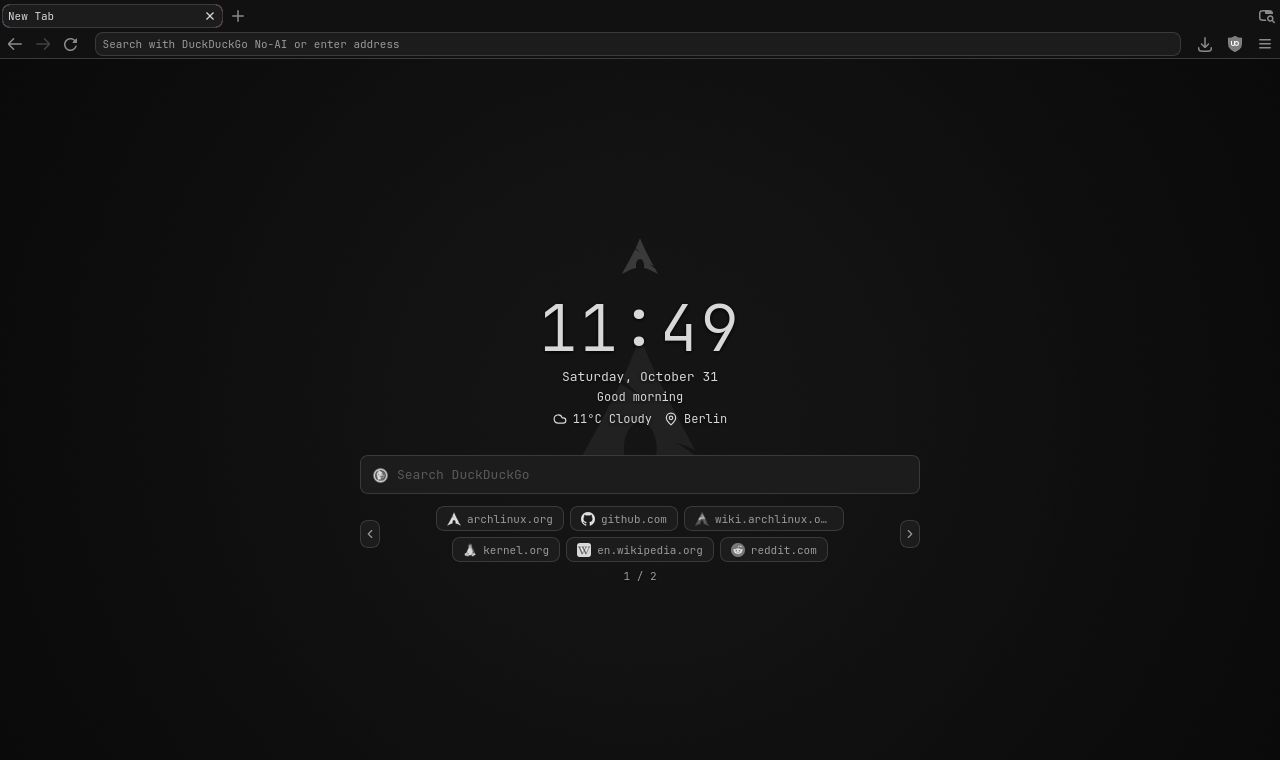
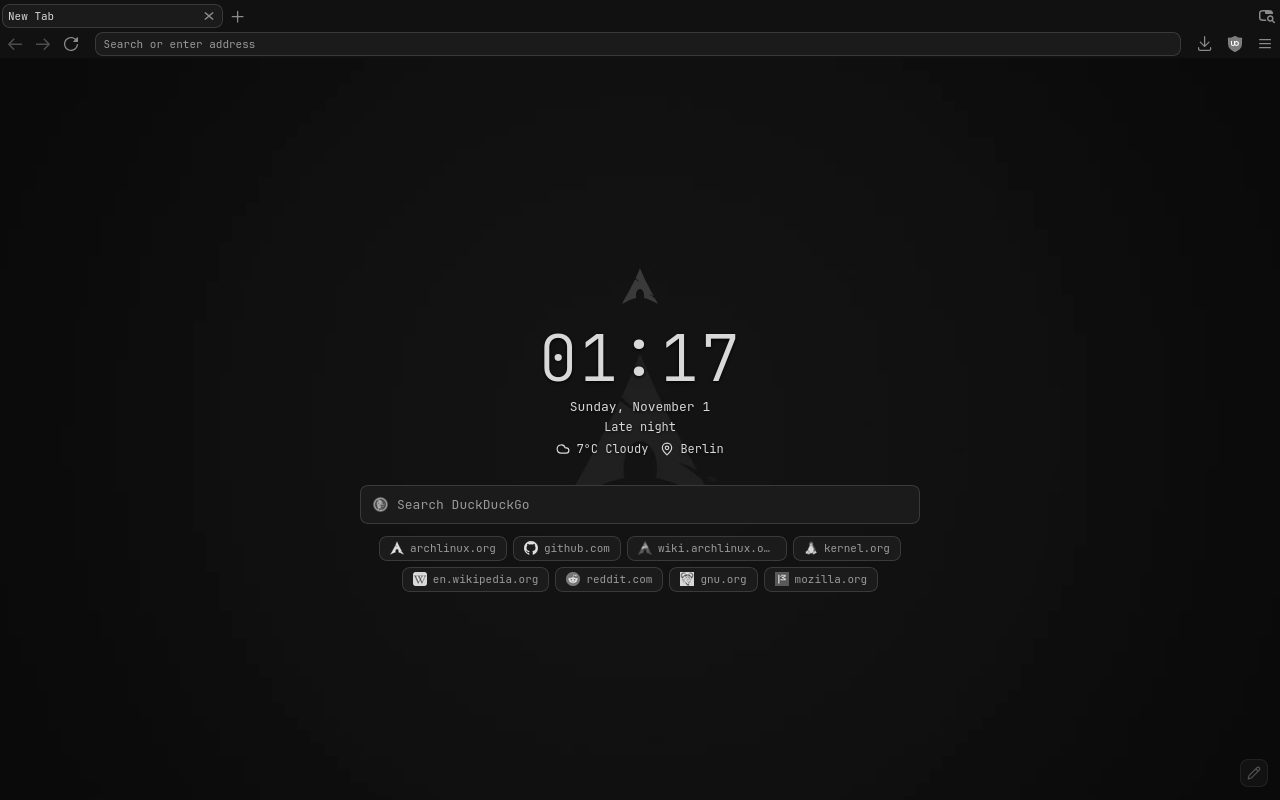
Simpler README, new screenshots

diff --git a/README.md b/README.md
@@ -1,16 +1,14 @@
 # Graphite LibreWolf
 
-A minimal gray theme and customizable new tab page for LibreWolf, built for low-spec PCs: no animations, no background code, and no network use unless you turn it on.
+A minimal gray theme and new tab page for LibreWolf, made for low-spec PCs. No animations, no background code, and nothing uses the network unless you turn it on.
 
 > **Version 0.5: early testing.** Expect rough edges and changes.
 
 ![LibreWolf with the Graphite theme and start page](screenshots/start-page.png)
 
-![The customize panel](screenshots/customize.png)
-
 ## Install
 
-You need LibreWolf opened at least once, plus [JetBrainsMono Nerd Font](https://www.nerdfonts.com/) (on Arch: `sudo pacman -S ttf-jetbrains-mono-nerd`).
+You need LibreWolf opened at least once, and [JetBrainsMono Nerd Font](https://www.nerdfonts.com/) (on Arch: `sudo pacman -S ttf-jetbrains-mono-nerd`).
 
 **1. Install the theme**
 
@@ -20,11 +18,9 @@ cd librewolf-css
 ./install.sh
 ```
 
-Restart LibreWolf. The script backs up your existing `user.js` and `chrome` folder first. With several profiles it asks which one to use, and `about:profiles` shows the one in use.
+Then restart LibreWolf. Your current `user.js` and `chrome` folder are backed up first. If you have several profiles, it asks which one to use, and `about:profiles` shows the one in use.
 
 **2. Install the start page**
-
-The add-on is signed by Mozilla, so it needs no changes in `about:config`.
 
 1. Download `graphite-start.xpi` from the newest version on [Releases](https://github.com/absentlo/librewolf-css/releases).
 2. Open `about:addons`, click the gear, and choose **Install Add-on From File**.
@@ -34,55 +30,59 @@ The add-on is signed by Mozilla, so it needs no changes in `about:config`.
 
 Open a new tab and click the pencil in the bottom-right corner.
 
-For private windows too: in `about:addons`, open **Graphite Start** and set **Run in Private Windows** to **Allow**.
+To use the start page in private windows, open **Graphite Start** in `about:addons` and set **Run in Private Windows** to **Allow**.
 
 > **Firefox:** the add-on needs version 140 or newer, but only LibreWolf 159 has been tested.
 
-## What the pencil panel does
+## What you can customize
+
+![The customize panel](screenshots/customize.png)
 
 - **Sections:** show or hide the logo, clock, date, search, pages and weather.
-- **Clock:** 12 or 24 hour, three sizes, your time zone, and your name in the greeting.
-- **Search:** six engines, each with its logo in gray.
-- **Weather:** your city in °C or °F, with icons for the conditions and for day or night.
+- **Clock:** 12 or 24 hour, three sizes, your time zone and your name.
+- **Search:** six search engines.
+- **Weather:** your city, in °C or °F.
 - **Wallpaper:** your own image, with a darkness slider. It's resized to 1920 px wide to keep new tabs fast, and animated images become still.
-- **My pages and Most visited:** gray logos, custom names and logo-only buttons. Set how many show per page, then browse with the arrows, the mouse wheel or the left and right keys.
-- **Backup:** export and import all of this as one file.
-
-## New profile? Your theme is gone
-
-Your theme lives **inside the profile folder**, and a new profile starts empty. To bring everything back:
-
-1. In the old profile, open the panel and click **export**.
-2. Open the new profile once, close it, and run `./install.sh`.
-3. Install the start page again (step 2 above), then click **import**.
-4. Tick **Weather**, **Page icons** and **Most visited** again, since permissions don't carry over.
-
-The backup holds your wallpaper and page addresses in plain text, so keep it private.
-
-Don't copy a whole profile folder: the browser can end up pointing at the copy instead of your real profile.
-
-## Change things
-
-- **Colors:** the variables at the top of `userChrome.css` and of `startpage/newtab.css`.
-- **Font:** `--g-font` in `userChrome.css`.
-- **Window buttons:** on a tiling window manager such as i3 or sway, uncomment the marked block in `userChrome.css` to hide them.
-- **Preferences:** `user.js` has a comment on every setting. If you delete a line, also reset that setting in `about:config`.
-- **Video:** `user.js` turns off AV1, which helps most older PCs. If your GPU decodes AV1, delete that line and reset the setting.
-- **The start page's code:** raise `version` in `startpage/manifest.json` and run `./install.sh --build-addon` (needs `zip`). Your build is unsigned, so installing it needs `xpinstall.signatures.required` set to `false` in `about:config`, which lets LibreWolf install any unsigned add-on.
-
-**Before updating the add-on,** keep a normal website tab open. Updating closes the start page's tabs, and if they're the only ones open, the window closes too.
+- **Pages:** your own sites and your most visited ones, with gray logos and custom names.
+- **Backup:** save all of this to a file and load it again later.
 
 ## Privacy
 
-These are all off until you turn them on, and LibreWolf asks your permission first for Weather and Page icons.
+These are off until you turn them on. LibreWolf asks your permission first.
 
 | Option | What it contacts | What that sees |
 |---|---|---|
 | Weather | [Open-Meteo](https://open-meteo.com/) | Your IP address and city, at most every 30 minutes |
 | Page icons | DuckDuckGo's icon service | Your IP address and the site's name, once per site |
-| Most visited | Nothing | Your history is read locally, with your permission |
+| Most visited | Nothing | Your history is read locally |
 
 Searches go to the engine you pick. Nothing else on the page uses the network.
+
+## Update
+
+- **Theme:** run `git pull` and `./install.sh`, then restart LibreWolf.
+- **Start page:** install the new file from [Releases](https://github.com/absentlo/librewolf-css/releases) the same way. Keep a normal website tab open first: updating closes the start page's tabs, and if they're the only ones open, the window closes too.
+
+## Move to a new profile
+
+The theme lives inside the profile folder, so a new profile starts without it.
+
+1. In the old profile, open the panel and click **export**. The file holds your wallpaper and page addresses in plain text, so keep it private.
+2. Open the new profile once, close it, and run `./install.sh`.
+3. Install the start page again, then click **import**.
+4. Tick **Weather**, **Page icons** and **Most visited** again, since permissions don't carry over.
+
+Don't copy a whole profile folder: the browser can end up pointing at the copy instead of your real profile.
+
+## Change the theme
+
+- **Colors:** the variables at the top of `profile/chrome/userChrome.css` and `startpage/newtab.css`.
+- **Font:** `--g-font` in `userChrome.css`.
+- **Window buttons:** on a tiling window manager such as i3 or sway, uncomment the marked block in `userChrome.css` to hide them.
+- **Settings:** `profile/user.js` has a comment on every line, including AV1 video and the bookmarks bar being off. If you delete a line, also reset that setting in `about:config`.
+- **Start page code:** raise `version` in `startpage/manifest.json` and run `./install.sh --build-addon` (needs `zip`). Your build is unsigned, so installing it needs `xpinstall.signatures.required` set to `false` in `about:config`, which lets LibreWolf install any unsigned add-on.
+
+Run `./install.sh` again after editing, because the browser uses the copies in your profile.
 
 ## Problems
 
@@ -93,7 +93,9 @@ Searches go to the engine you pick. Nothing else on the page uses the network.
 
 ## Uninstall
 
-Remove the add-on from `about:addons`, which deletes its settings. Then delete `user.js` and `chrome` from the profile folder, or restore your `.bak-` copies, and reset any settings you want back in `about:config`.
+1. Remove the add-on from `about:addons`. This also deletes its settings, so click **export** first if you want to keep them.
+2. Delete `user.js` and `chrome` from the profile folder, or restore your `.bak-` copies.
+3. Reset any settings you want back in `about:config`.
 
 ## License
 
